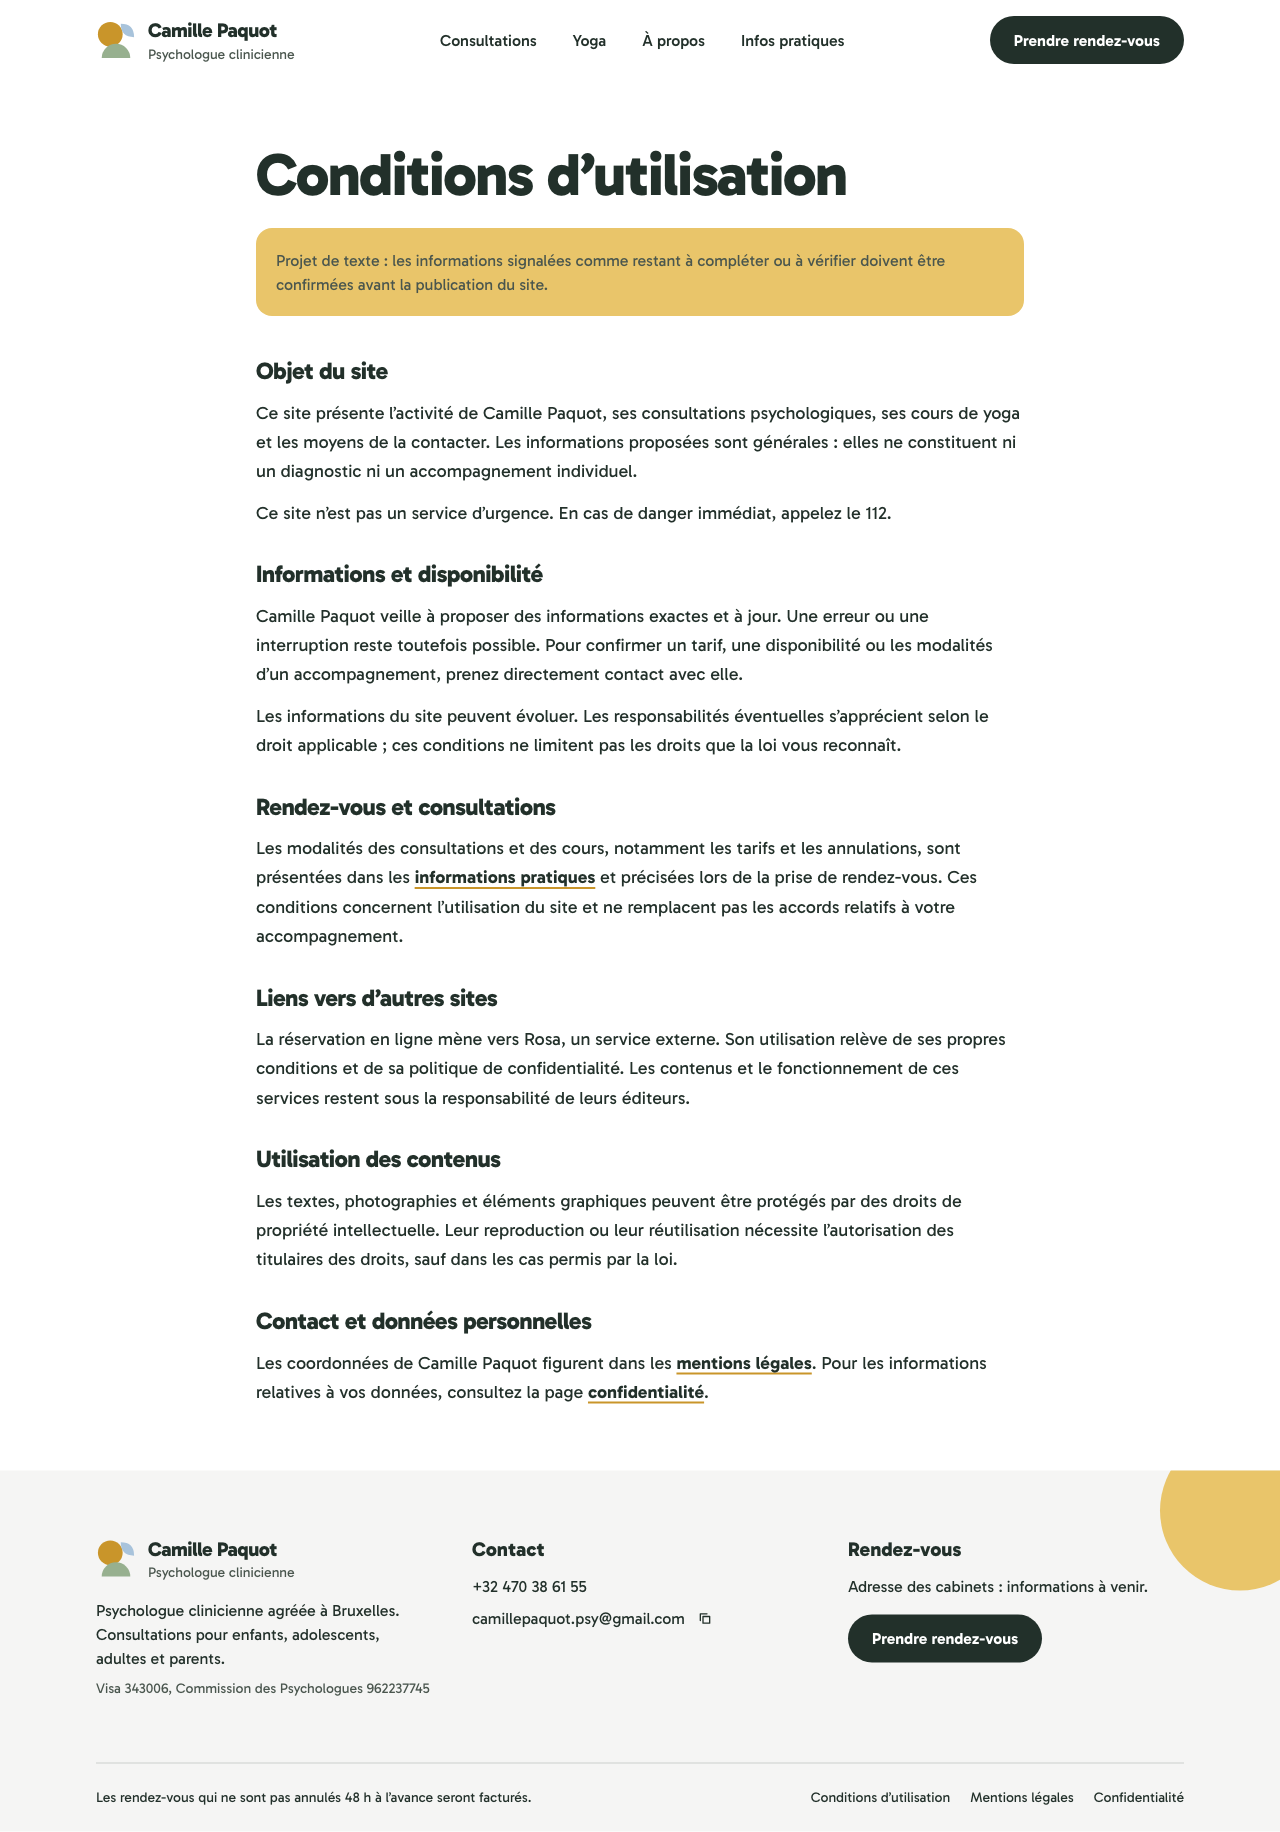
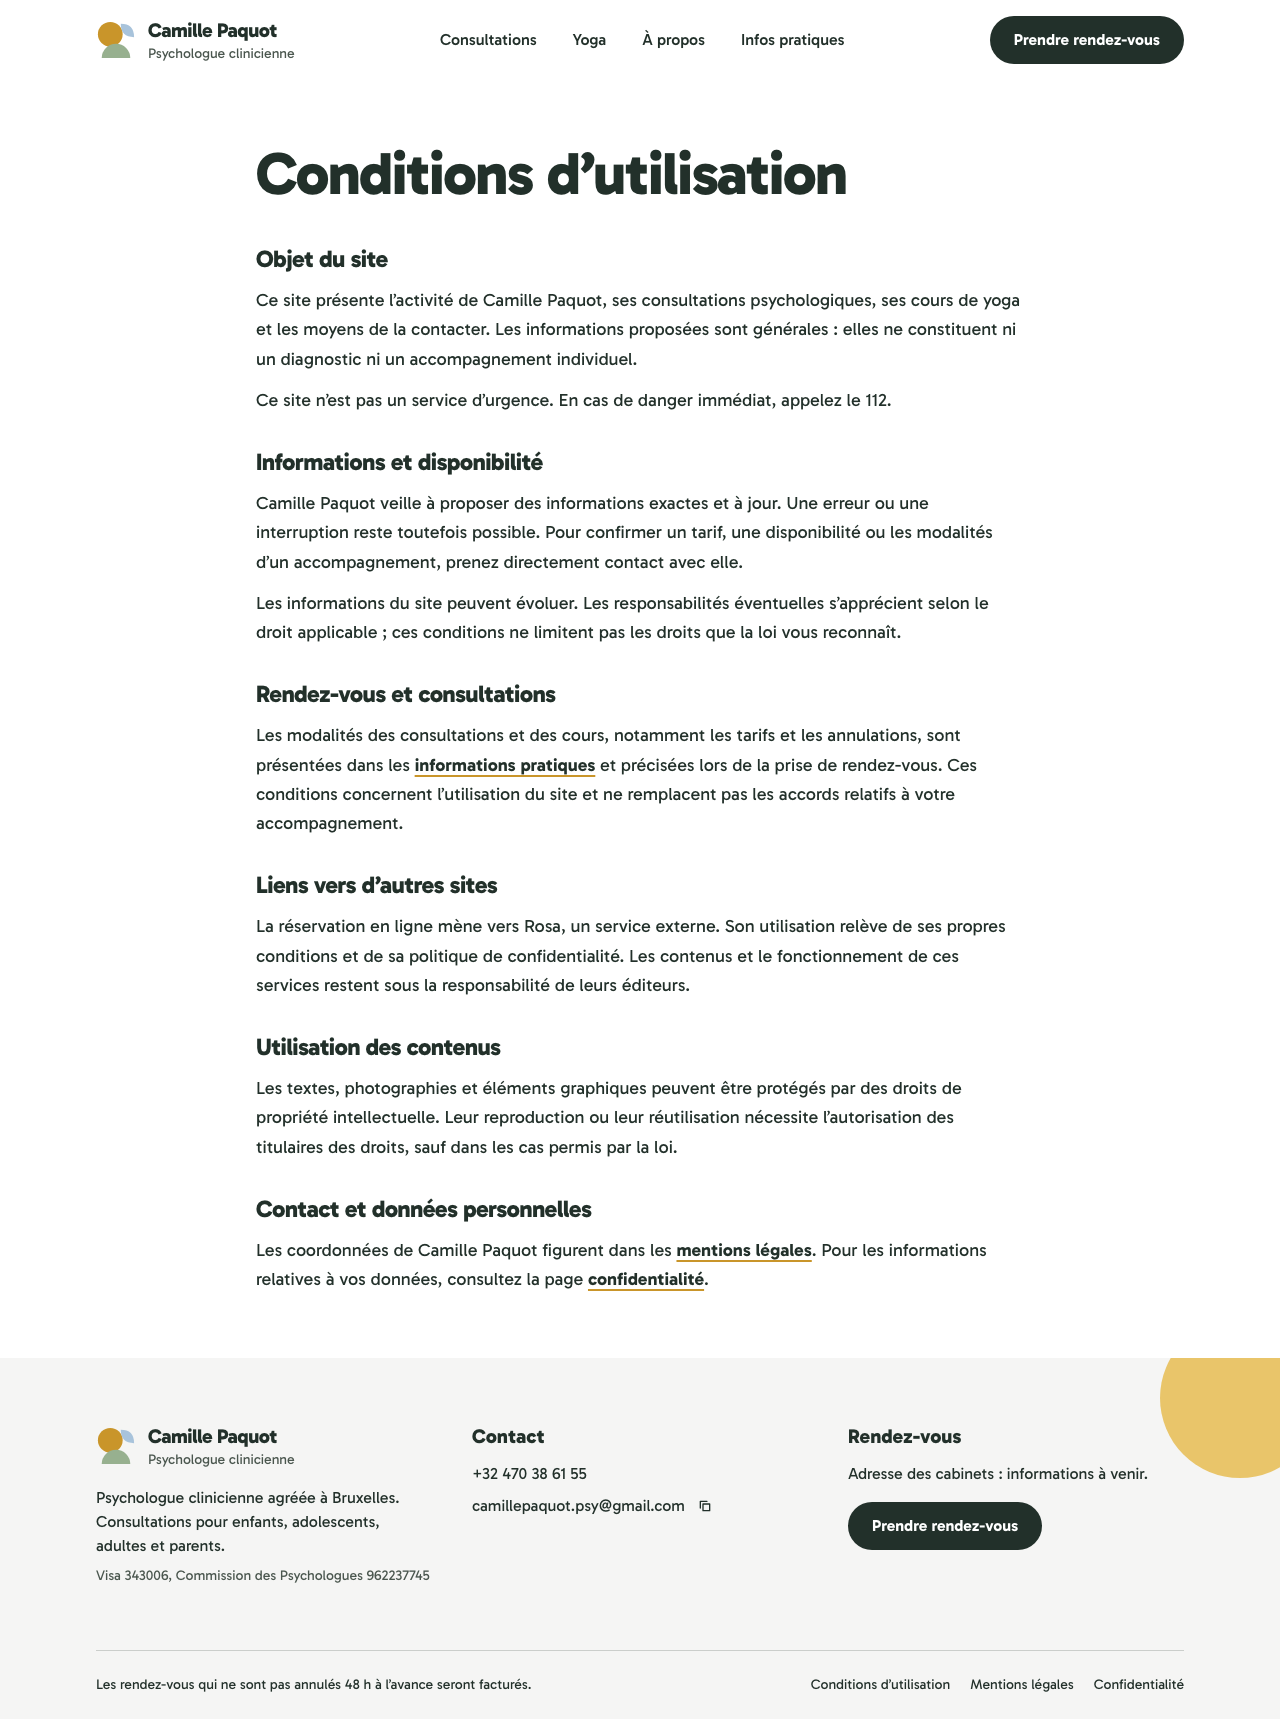
Simplify legal copy and add confirmed enterprise number

diff --git a/src/routes/confidentialite.tsx b/src/routes/confidentialite.tsx
@@ -35,21 +35,17 @@ function PrivacyPage() {
       </LegalSection>
       <LegalSection title="Consultation du site">
         <p>
-          Même pour un site statique, l’hébergeur traite des données techniques liées aux requêtes,
-          notamment l’adresse IP, la date de connexion et les pages demandées. Certaines peuvent
-          être conservées dans des journaux pour le fonctionnement et la sécurité du site. La base
-          juridique envisagée est l’intérêt légitime à assurer la disponibilité et la sécurité du
-          site. Les données effectivement enregistrées, cette base juridique et les durées de
-          conservation restent à vérifier avec l’hébergeur.
+          L’hébergeur traite les données techniques nécessaires pour vous transmettre les pages et
+          assurer le fonctionnement et la sécurité du site, notamment l’adresse IP, la date de
+          connexion et les pages demandées. Certaines de ces données peuvent être conservées dans
+          des journaux techniques.
         </p>
       </LegalSection>
       <LegalSection title="Prise de contact">
         <p>
           Lorsque vous contactez Camille Paquot par e-mail ou téléphone, vos coordonnées et les
           informations que vous transmettez servent à répondre à votre demande et, le cas échéant, à
-          préparer un rendez-vous. Selon la demande, le traitement peut reposer sur des démarches
-          précontractuelles réalisées à votre initiative ou sur l’intérêt légitime de répondre aux
-          demandes. Les bases juridiques applicables sont à confirmer avant publication.
+          préparer un rendez-vous.
         </p>
         <p>
           Pour une première prise de contact, indiquez uniquement les informations utiles pour vous
@@ -58,43 +54,31 @@ function PrivacyPage() {
       </LegalSection>
       <LegalSection title="Prestataires et réservation">
         <p>
-          Les données techniques peuvent être traitées par l’hébergeur Cloudflare et les messages
-          par le prestataire de messagerie utilisé pour les échanges. Les accès et engagements de
-          ces prestataires doivent être vérifiés.
+          Les données techniques sont traitées par l’hébergeur Cloudflare et les messages par le
+          prestataire de messagerie utilisé pour les échanges.
         </p>
         <p>
-          Le bouton de réservation est un lien vers Rosa. Le site n’intègre pas de formulaire Rosa :
-          c’est lorsque vous ouvrez ce lien que vous accédez à son service, soumis à ses propres
+          Le bouton de réservation vous mène vers Rosa, un service externe soumis à ses propres
           informations de confidentialité.
         </p>
       </LegalSection>
-      <LegalSection title="Statistiques de fréquentation et cookies">
+      <LegalSection title="Statistiques de fréquentation">
         <p>
-          Une mesure simple de la fréquentation est active pour consulter des statistiques globales,
-          comme le nombre de visites et les pages consultées. Le service Cloudflare utilisé, les
-          données traitées, leur conservation et les éventuels cookies ou autres traceurs restent à
-          confirmer avant publication.
+          Cloudflare Web Analytics fournit des statistiques globales, comme le nombre de visites et
+          les pages consultées. Selon Cloudflare, ce service n’utilise ni cookies, ni stockage
+          local, ni empreinte du navigateur pour suivre les visiteurs. Vous pouvez consulter les{" "}
+          <TextAnchor href="https://www.cloudflare.com/trust-hub/gdpr/">
+            informations de Cloudflare sur la protection des données
+          </TextAnchor>
+          .
         </p>
       </LegalSection>
-      <LegalSection title="Informations à compléter avant publication">
-        <ul className="list-disc space-y-2 pl-6">
-          <li>
-            Les durées de conservation des messages et des journaux techniques, ou les critères
-            permettant de les déterminer.
-          </li>
-          <li>
-            Les bases juridiques retenues pour chaque usage, les destinataires et les garanties
-            contractuelles des prestataires.
-          </li>
-          <li>
-            Les éventuels transferts de données hors de l’Espace économique européen et les
-            garanties qui les encadrent.
-          </li>
-          <li>
-            L’adresse professionnelle du responsable et les informations propres aux données
-            traitées dans le cadre des consultations.
-          </li>
-        </ul>
+      <LegalSection title="Informations complémentaires à venir">
+        <p>
+          Cette page sera complétée avec l’adresse professionnelle, les durées de conservation, les
+          bases juridiques des traitements et les garanties applicables aux prestataires et aux
+          éventuels transferts de données hors de l’Espace économique européen.
+        </p>
       </LegalSection>
       <LegalSection title="Vos droits">
         <p>

diff --git a/src/routes/mentions-legales.tsx b/src/routes/mentions-legales.tsx
@@ -29,8 +29,8 @@ function LegalNoticePage() {
           E-mail : <EmailLink />
         </p>
         <ul className="list-disc space-y-2 pl-6">
-          <li>Adresse professionnelle légale : à compléter.</li>
-          <li>Numéro d’entreprise (BCE) : à compléter.</li>
+          <li>Adresse professionnelle : à venir.</li>
+          <li>Numéro d’entreprise (BCE) : 1006.262.558 (personne physique).</li>
           <li>Statut TVA et numéro de TVA, si applicable : à compléter.</li>
         </ul>
       </LegalSection>
@@ -52,8 +52,8 @@ function LegalNoticePage() {
       </LegalSection>
       <LegalSection title="Hébergement">
         <p>
-          Le site est configuré pour être hébergé sur Cloudflare Workers. L’entité contractante, ses
-          coordonnées et les modalités d’hébergement sont à confirmer avant publication.
+          Le site est hébergé sur Cloudflare Workers. Les coordonnées complètes de l’hébergeur
+          seront ajoutées à cette page.
         </p>
       </LegalSection>
       <LegalSection title="Signaler une erreur">

diff --git a/src/components/LegalPage.tsx b/src/components/LegalPage.tsx
@@ -7,10 +7,6 @@ export function LegalPage({ title, children }: { title: string; children: ReactN
     <Container as="section" className="py-12 md:py-16">
       <div className="mx-auto max-w-3xl">
         <Heading level={1}>{title}</Heading>
-        <p className="mt-6 rounded-2xl bg-mustard-light p-5 text-ink-soft">
-          Projet de texte : les informations signalées comme restant à compléter ou à vérifier
-          doivent être confirmées avant la publication du site.
-        </p>
         <div className="mt-10 space-y-8 text-lg leading-relaxed">{children}</div>
       </div>
     </Container>

diff --git a/docs/legal-publication-checklist.md b/docs/legal-publication-checklist.md
@@ -1,18 +1,18 @@
 # Legal publication checklist
 
-The three French legal pages are drafts and use `noindex`. Remove the draft notice and `noindex` only after their missing facts and processing descriptions have been confirmed. These drafts do not replace a patient privacy notice.
+The three French legal pages remain incomplete and use `noindex`. Generic draft banners and the visitor-facing preparation checklist have been removed; keep `noindex` until the missing identity and processing details are confirmed. These pages do not replace a patient privacy notice.
 
 Before publication:
 
-- Confirm the legal professional address, BCE number, VAT status, exact qualification and country that granted the professional title.
+- Confirm the legal professional address, VAT treatment, exact qualification and country that granted the professional title. BCE 1006.262.558 is verified in Public Search and its identity was confirmed by the owner on 16 October 2026. The register identifies an active natural person, Paquot, Camille, with psychology activity (NACE 86.931). Its TVA registration does not establish the VAT treatment of each service. No register address has been published.
 - Confirm the Cloudflare contracting entity, contact details, active hosting/security settings, logging data, retention and provider agreements.
-- The owner confirms simple traffic analytics are active for aggregate visit/page statistics. Confirm the exact Cloudflare service, configuration, data processed and retention, including any dashboard-injected beacon. Inspect deployed responses, browser requests, cookies and other trackers. No analytics or advertising integration was found in the source code; dashboard settings and deployed behavior have not been inspected. Do not infer absence of personal-data processing or visitor identification from this code inspection.
+- The owner confirms Cloudflare Web Analytics is active for aggregate visit/page statistics. Verify the configuration, data processed and retention, including any dashboard-injected beacon. Inspect deployed responses, browser requests, cookies and other trackers. No analytics or advertising integration was found in the source code; dashboard settings and deployed behavior have not been inspected. Do not infer absence of personal-data processing or visitor identification from this code inspection.
 - Confirm the legal bases, recipients, retention periods or criteria, and any international transfers and safeguards for website/contact data, including the email provider.
 - Supply the separate patient privacy information and verify consultation arrangements with the practitioner.
 
 Static hosting still processes technical request data, separately from aggregate audience statistics. Do not infer zero logging, zero personal data, anonymity or a consent exemption from the site's static nature or the intended simplicity of the analytics.
 
-Repository evidence: `src/constants.ts` holds known contact and registration numbers; `src/components/BookingLink.tsx` uses an external Rosa link; `src/routes/__root.tsx` and `src/styles.css` load local assets; `wrangler.jsonc` enables Workers observability with `head_sampling_rate: 1`. This setting does not identify the audience analytics service; active basic traffic analytics are recorded on the owner's confirmation. No Web Analytics beacon or deployment injection configuration was found in the repository. Professional addresses are still missing from the existing practical information page.
+Repository evidence: `src/constants.ts` holds known contact and registration numbers; `src/components/BookingLink.tsx` uses an external Rosa link; `src/routes/__root.tsx` and `src/styles.css` load local assets; `wrangler.jsonc` enables Workers observability with `head_sampling_rate: 1`. This setting does not identify the audience analytics service; active Cloudflare Web Analytics is recorded on the owner's confirmation. No Web Analytics beacon or deployment injection configuration was found in the repository. Professional addresses are still missing from the existing practical information page.
 
 Primary references for review:
 
@@ -20,3 +20,6 @@ Primary references for review:
 - [APD: right to information](https://www.autoriteprotectiondonnees.be/professionnel/rgpd-/droits-des-citoyens/droit-a-l-information)
 - [APD: cookies and other trackers](https://www.autoriteprotectiondonnees.be/cookies-et-autres-traceurs)
 - [Commission des Psychologues: professional code](https://www.compsy.be/le-code-de-deontologie)
+
+- [Cloudflare: GDPR and Web Analytics behavior](https://www.cloudflare.com/trust-hub/gdpr/)
+- [BCE Public Search: Camille Paquot, 1006.262.558](https://kbopub.economie.fgov.be/kbopub/zoeknummerform.html?nummer=1006262558&actionLu=Rechercher&lang=fr) (consulted 16 October 2026)
